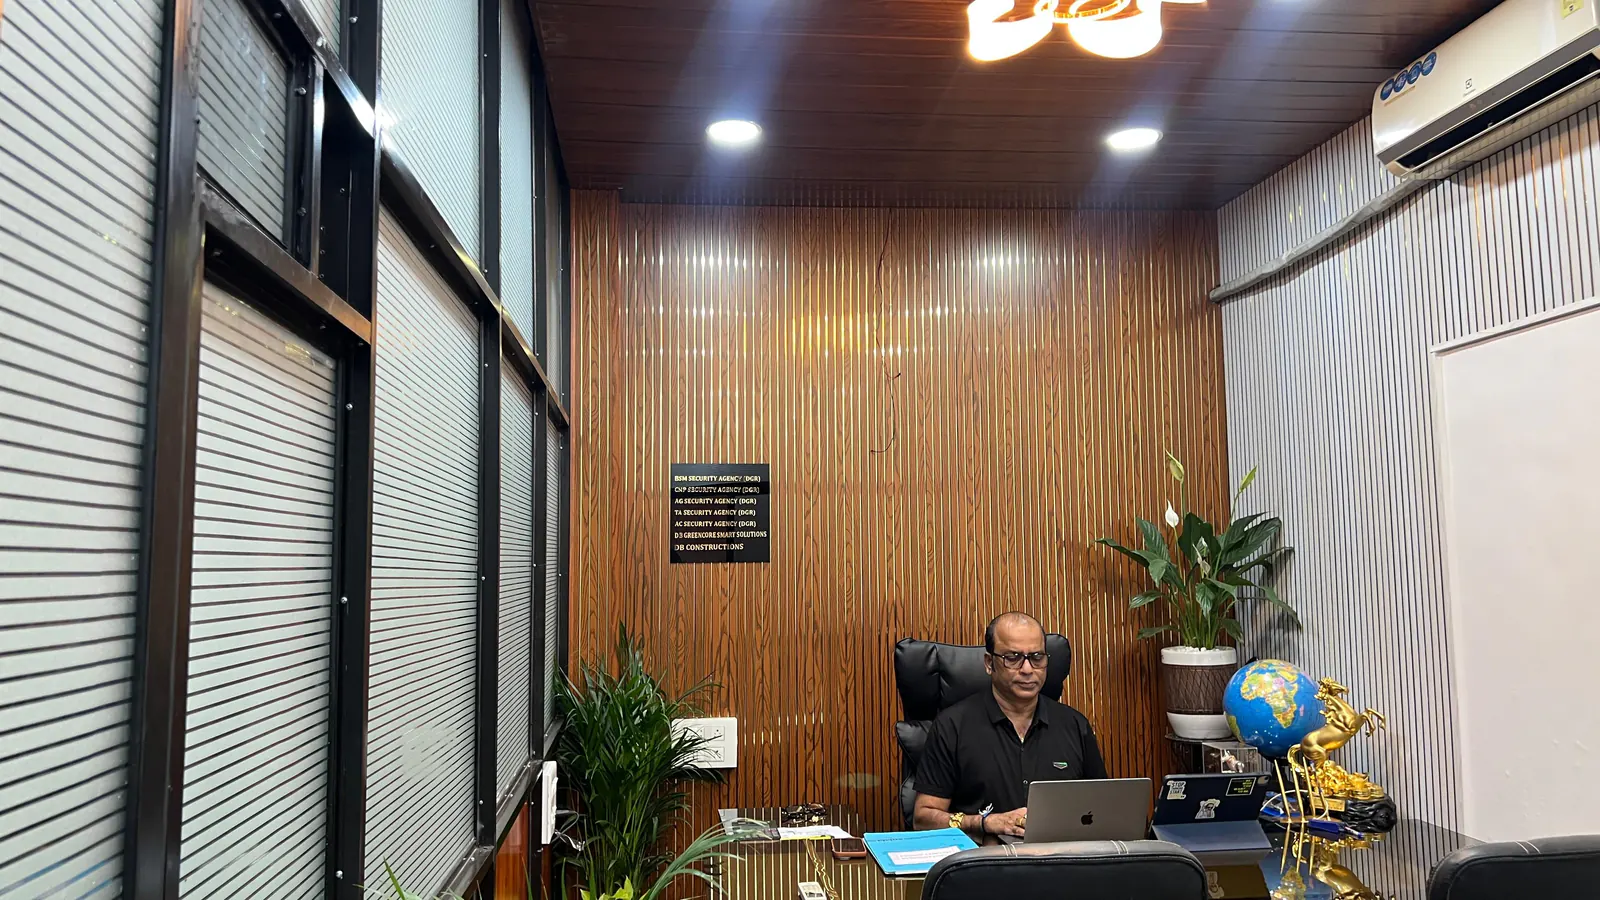
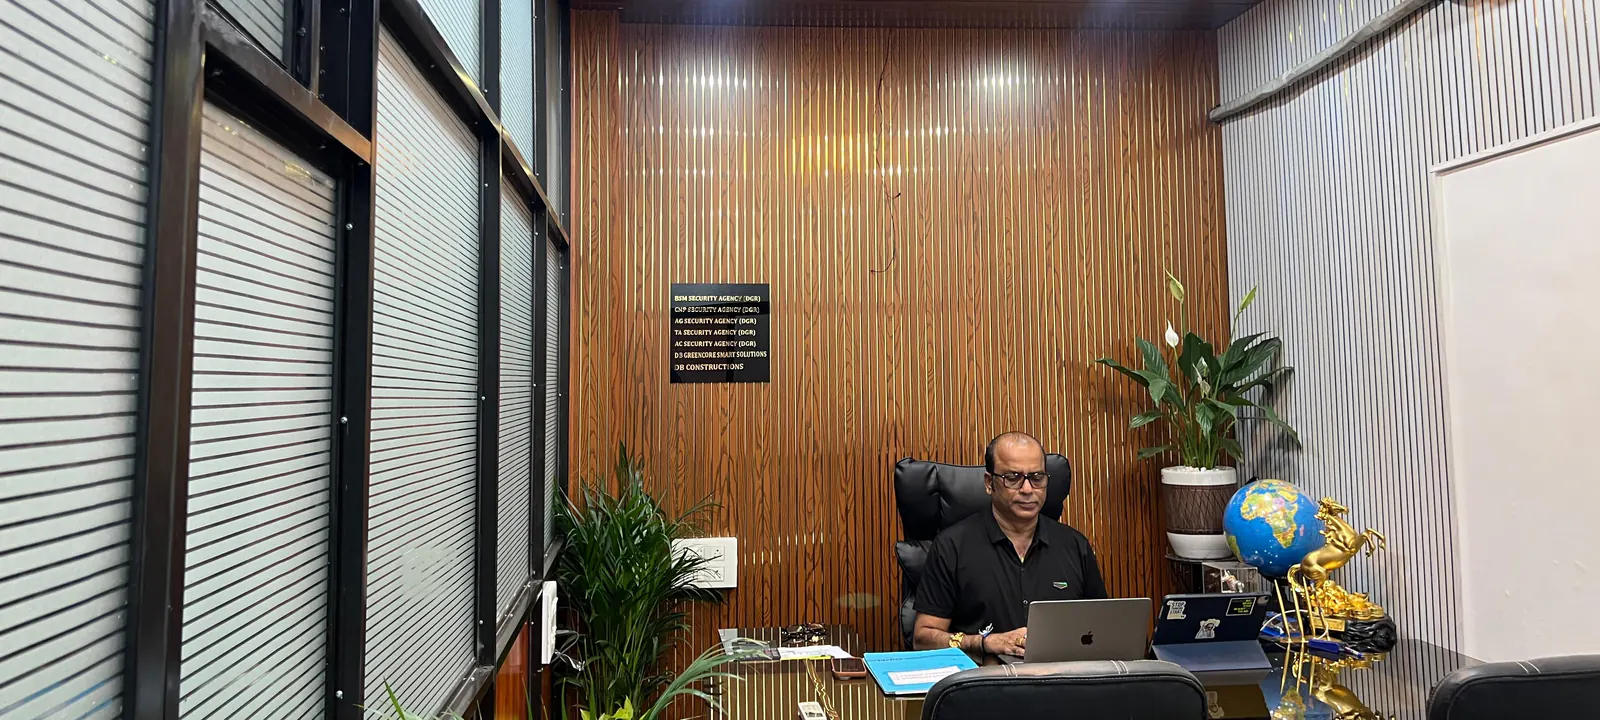
Gallery: trim the Head Office cover so the room sits centred
A fifth off the top. The frame carried a long run of ceiling and bare
panelling above the desk, which left the room's subject in the bottom
third of the cover card — the card is wide and short, so the crop fell
where there was nothing to see.

The declared ratio follows the crop, 1600/720 rather than 16:9. It has to:
a frame is sized from the ratio the dictionary states, so leaving it at
the old one would have letterboxed the picture it was meant to fit.

196 KB, down from 220.

diff --git a/lib/media/gallery.ts b/lib/media/gallery.ts
@@ -26,7 +26,7 @@ export const gallery: GalleryItem[] = [
   /* The cover first: the rail takes a group's cover from its first frame
      that has a photograph. Then wide and tall alternate, so no column of
      the masonry runs away from the others and leaves the row short. */
-  { shot: media.headOfficeCabinWide, group: "Head Office", figure: "Fig. 07", ratio: "1600 / 900" },
+  { shot: media.headOfficeCabinWide, group: "Head Office", figure: "Fig. 07", ratio: "1600 / 720" },
   { shot: media.headOfficeRecords, group: "Head Office", figure: "Fig. 08", ratio: "900 / 1600" },
   { shot: media.headOffice, group: "Head Office", figure: "Fig. 09", ratio: "1600 / 900" },
   { shot: media.headOfficeFrontDesk, group: "Head Office", figure: "Fig. 10", ratio: "900 / 1600" },

diff --git a/lib/media/photos.ts b/lib/media/photos.ts
@@ -242,8 +242,8 @@ export const media = {
     src: "/media/offices/head-office-cabin-wide.webp",
     alt: "The cabin at BSM's Head Office, the board of DGR-sponsored agencies on the panelled wall behind the desk",
     label: "Head Office — the cabin",
-    brief: "Supplied by BSM. Aquem, Margao.",
-    ratio: "1600 / 900",
+    brief: "Supplied by BSM. Aquem, Margao. Trimmed at the top: the frame carried a long run of ceiling above the desk.",
+    ratio: "1600 / 720",
   },
   headOfficeAdminDesks: {
     src: "/media/offices/head-office-admin-desks.webp",
